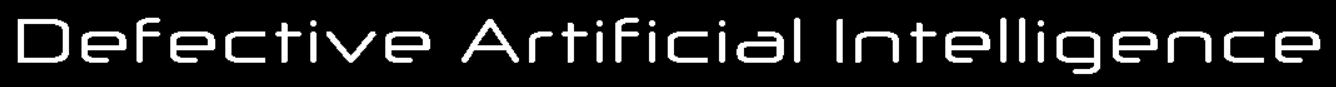
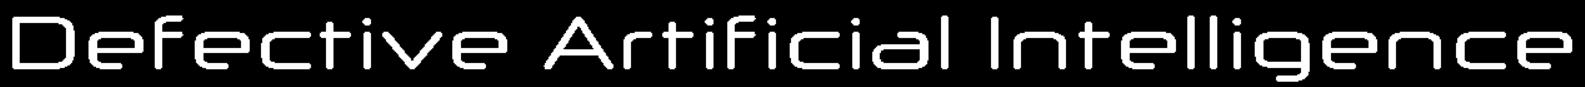
Higher title font

diff --git a/src/gui/fonts.py b/src/gui/fonts.py
@@ -3,7 +3,7 @@ import pygame
 fonts_descs = {
     'FPS_FONT': {'default': True, 'size': 20},
     'HEADER_FONT': {'name': 'fonts/GALS.ttf', 'size': 30},
-    'TITLE_FONT': {'name': 'fonts/neuropol_x_rg.ttf', 'size': 50},
+    'TITLE_FONT': {'name': 'fonts/neuropol_x_rg.ttf', 'size': 56},
     'BUTTON_FONT': {'name': 'fonts/anita_semi_square.ttf', 'size': 26},
     'STANDARD_FONT': {'name': 'fonts/anita_semi_square.ttf', 'size': 20}
 }

diff --git a/src/scenes/game.py b/src/scenes/game.py
@@ -139,7 +139,7 @@ class Game(Scene):
 
     def key_down(self, key):
         super().key_down(key)
-        if key == pygame.K_r:
+        if TWEAKING_MODE and key == pygame.K_r:
             self.init_game()
 
     def mouse_button_down(self, button, pos):
